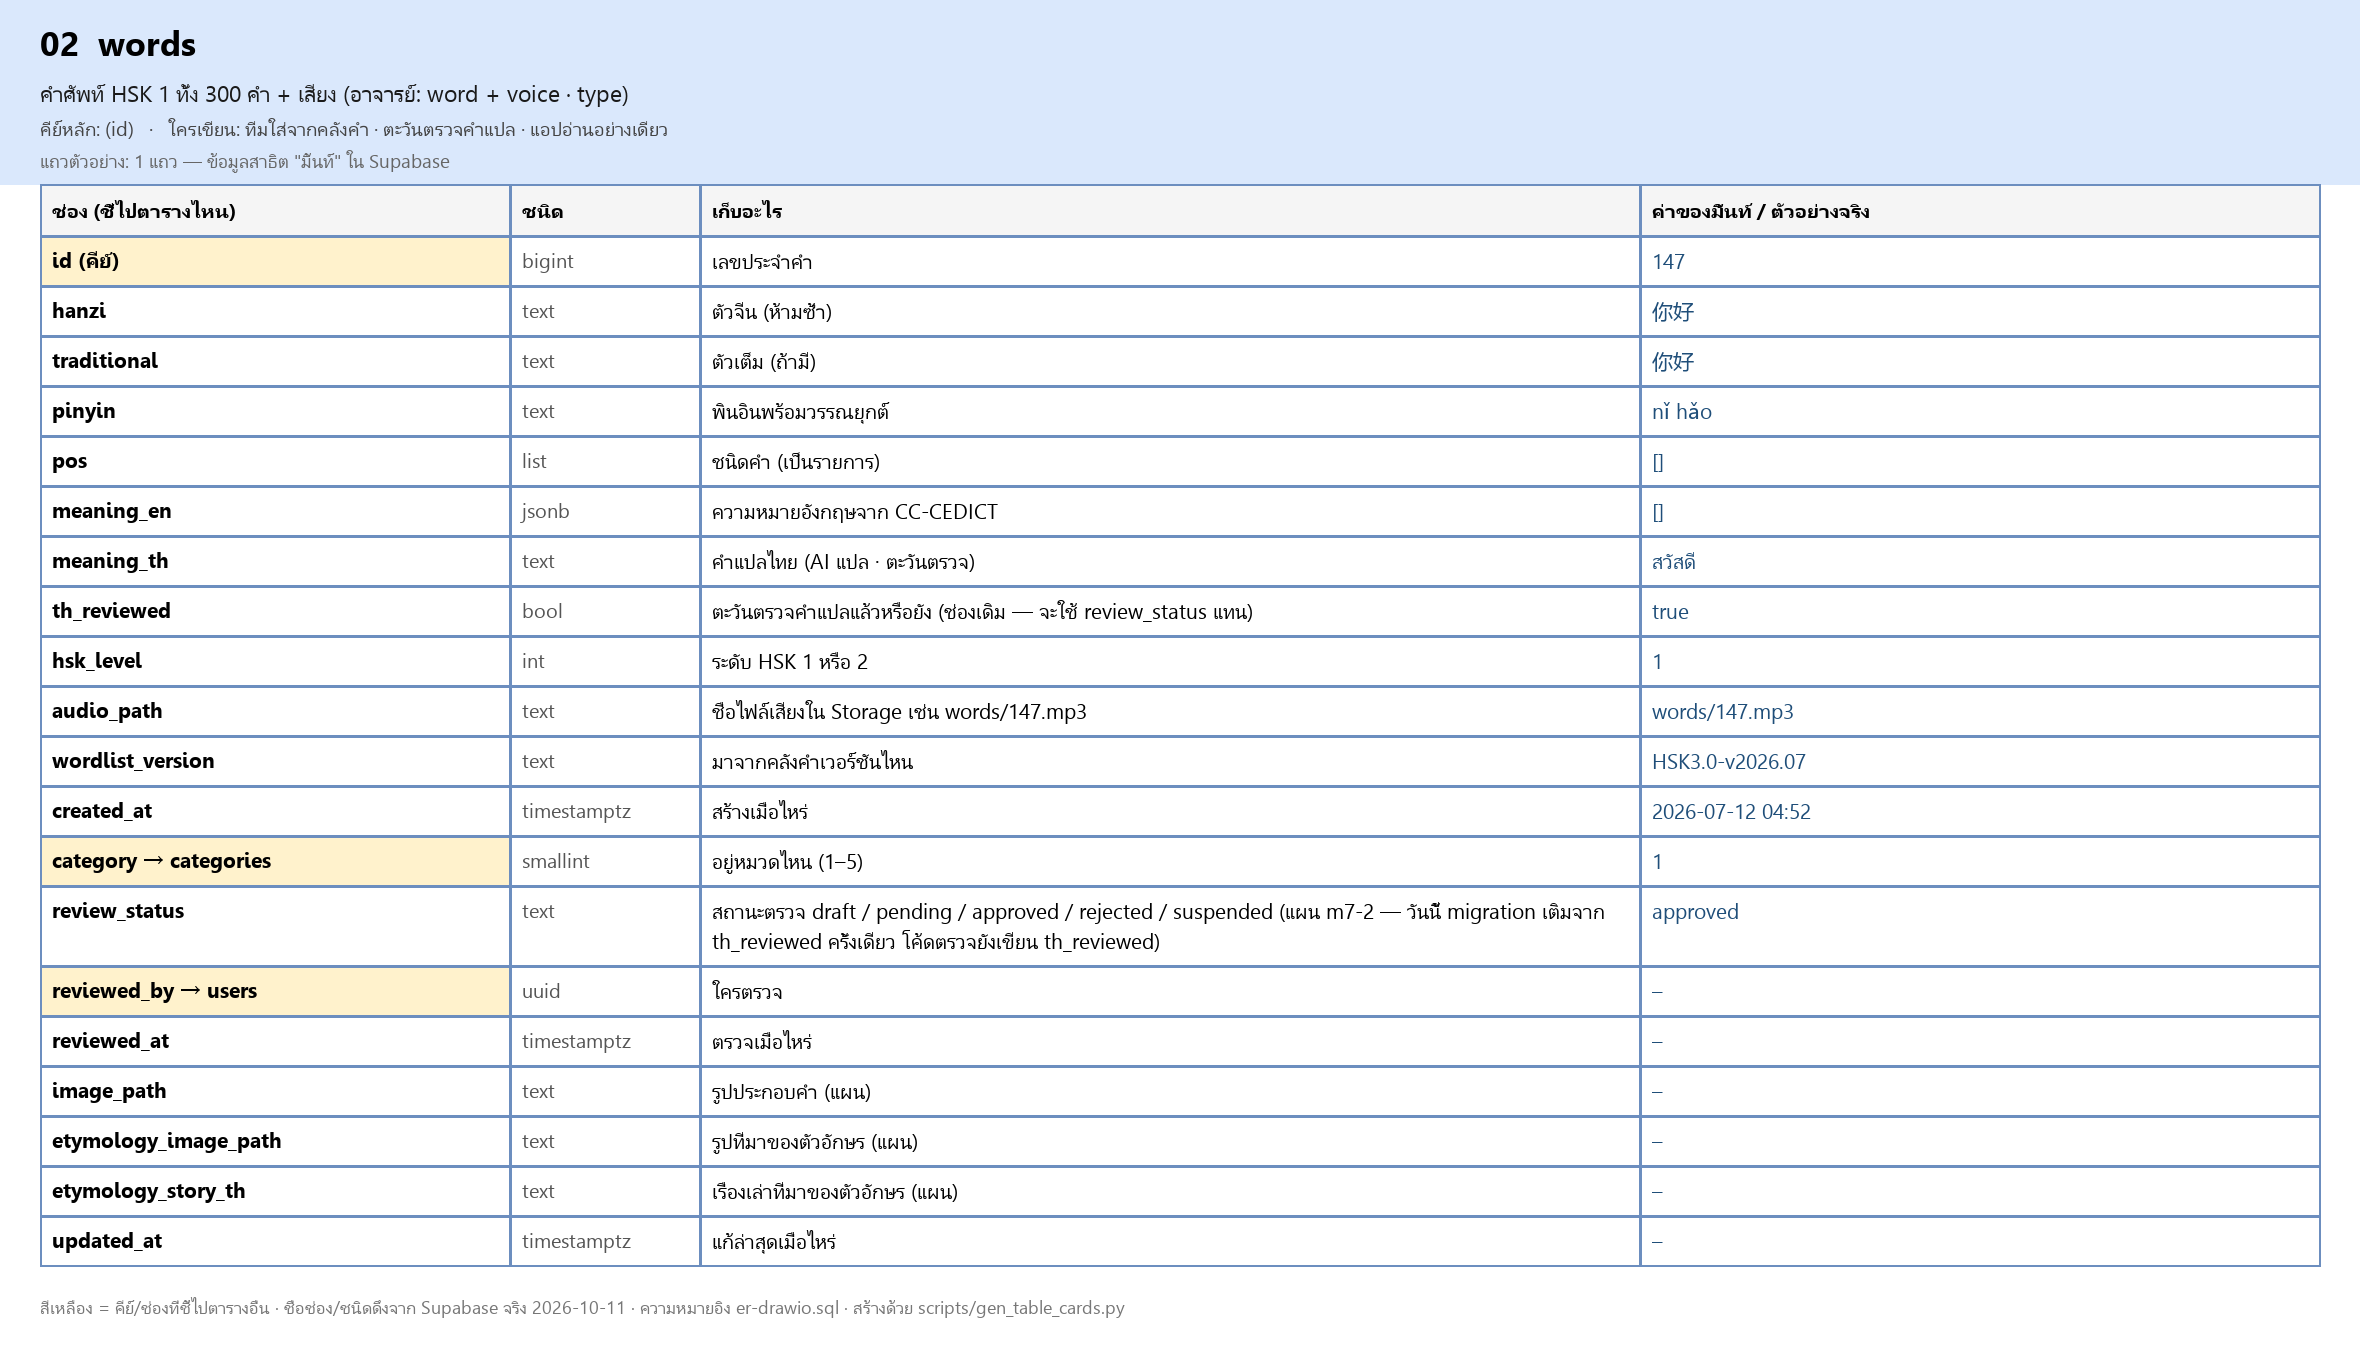
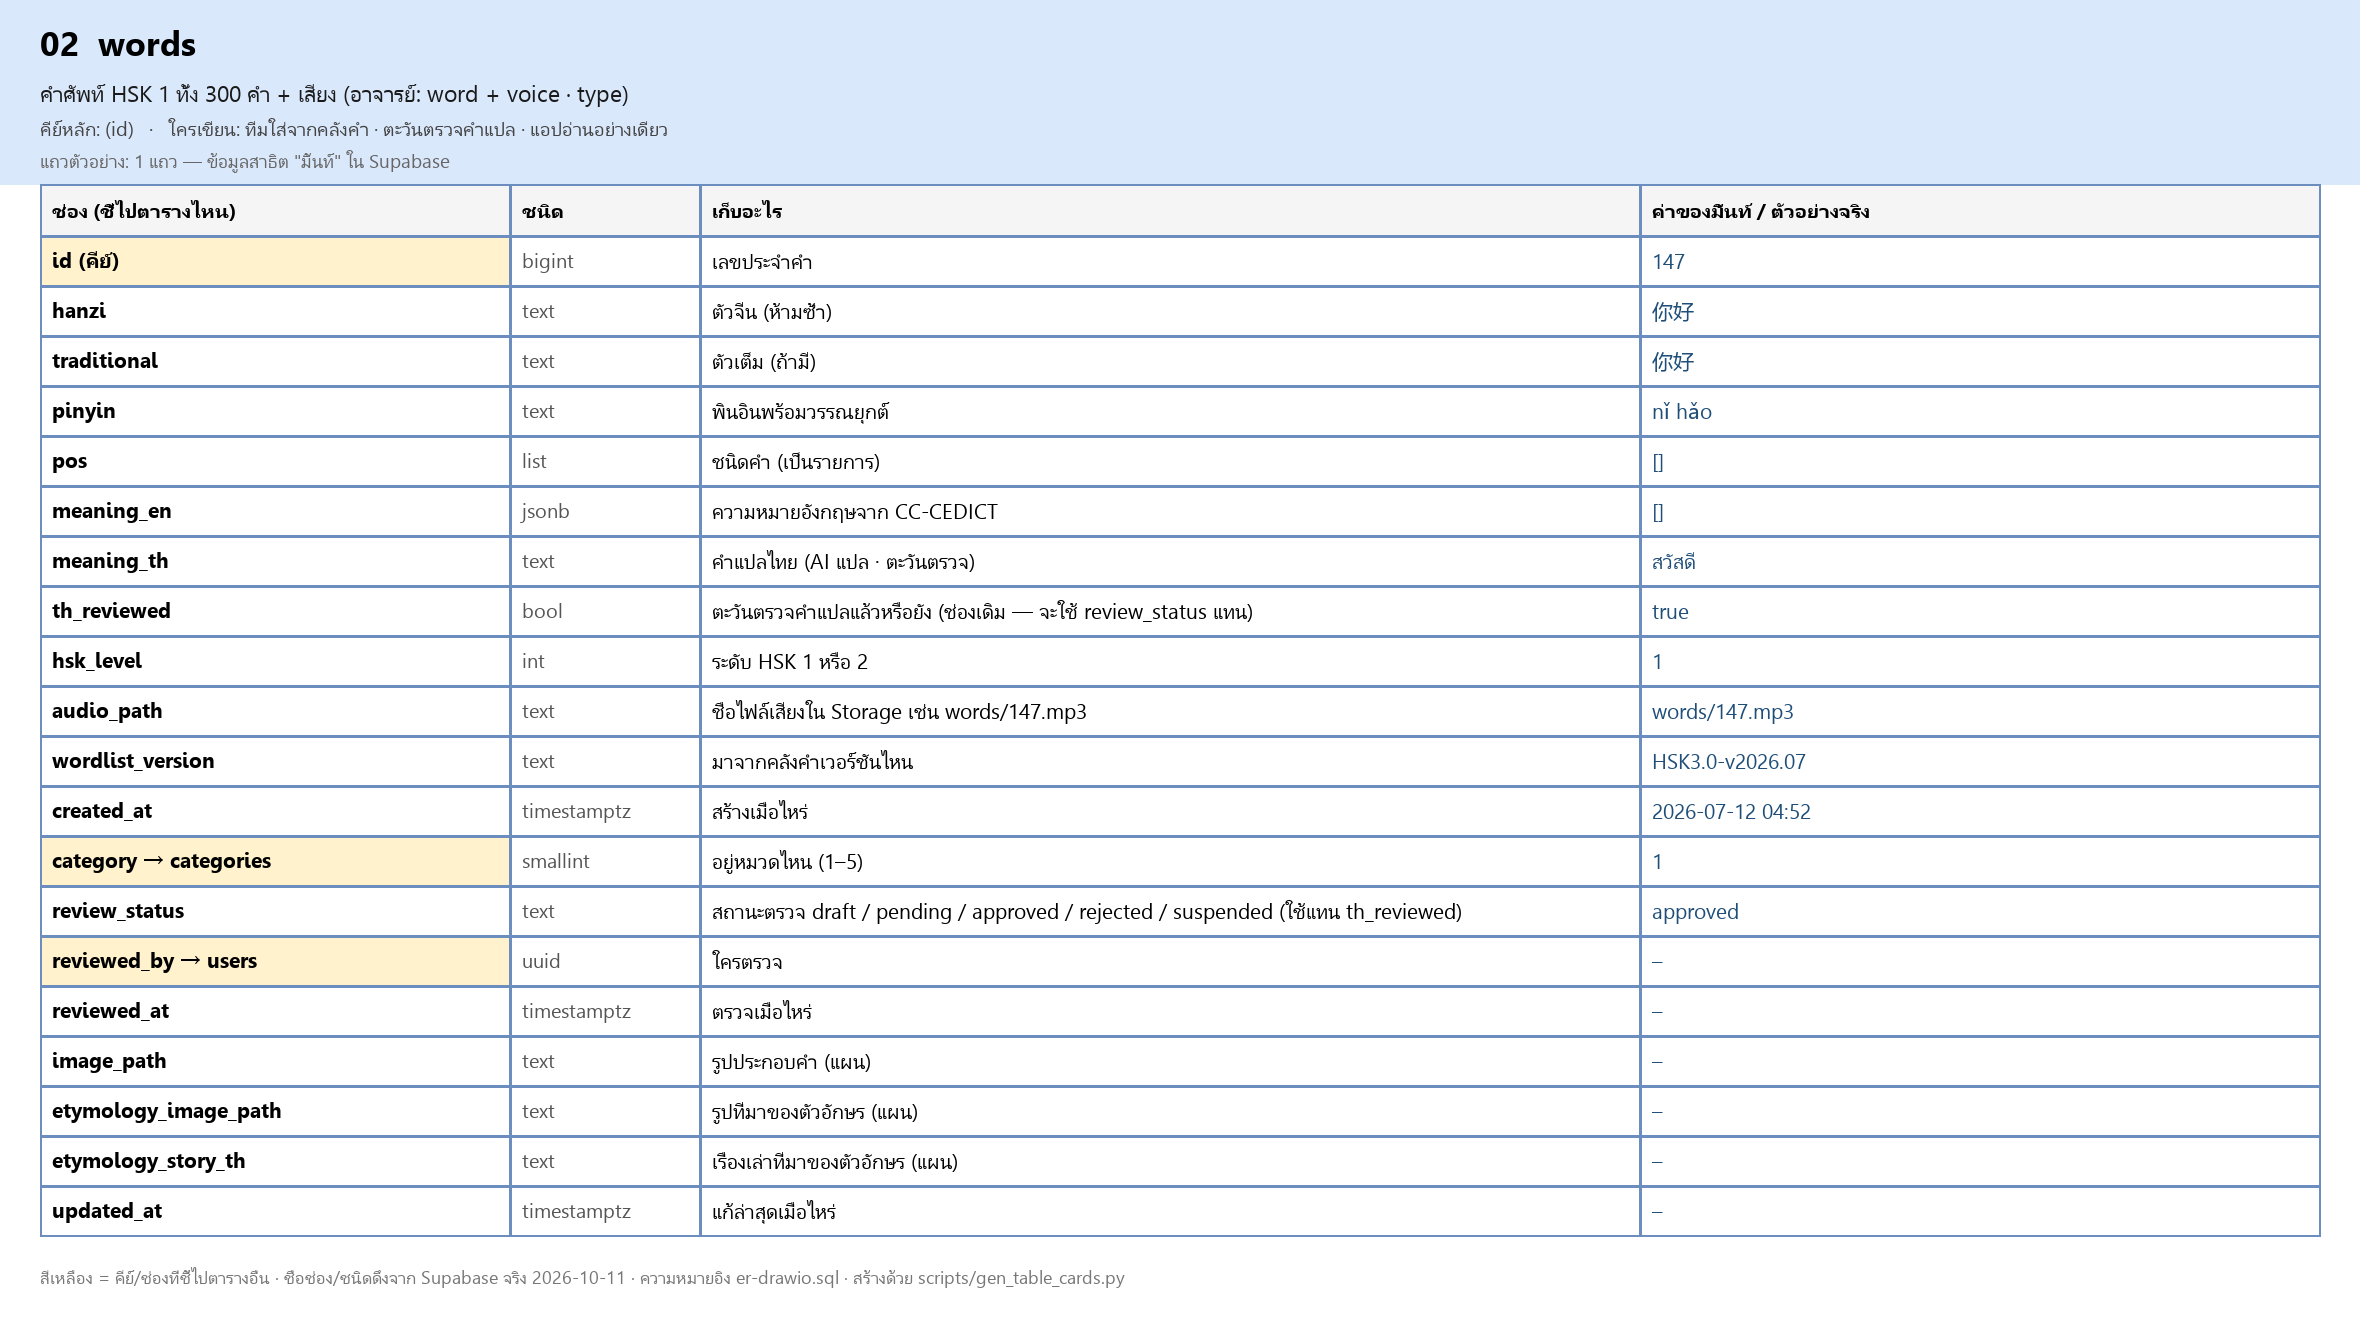
การ์ดตาราง: ตัดหมายเหตุ "แอปวันนี้ยังไม่ต่อ" ออก — การ์ดอธิบายตามแบบที่ออกแบบ (บอลสั่ง)

Changed region(s): [[0.0, 0.0619, 0.9898, 0.929], [0.1237, 0.96, 0.2475, 0.9909], [0.0619, 0.929, 0.0928, 0.9909]]

diff --git a/scripts/gen_table_cards.py b/scripts/gen_table_cards.py
@@ -23,9 +23,9 @@ PURPOSE = {
     "categories":        ("รายชื่อหมวด 5 หมวด (อาจารย์: cat)", "migration สร้างให้ · ไม่มีใครเพิ่มแถวในแอป · word_count DB นับเอง"),
     "words":             ("คำศัพท์ HSK 1 ทั้ง 300 คำ + เสียง (อาจารย์: word + voice · type)", "ทีมใส่จากคลังคำ · ตะวันตรวจคำแปล · แอปอ่านอย่างเดียว"),
     "users":             ("โปรไฟล์ผู้เรียน 1 คน = 1 แถว (อาจารย์: U)", "DB สร้างแถวเองตอนสมัคร (trigger) · ผู้เรียนแก้ได้เฉพาะช่องโปรไฟล์ · role/cohort แอดมินตั้ง"),
-    "category_progress": ("คน × หมวด — ใครเรียนหมวดไหนไปถึงไหน", "แอปเขียนแถวของตัวเอง (RLS) · quiz_best_score / quiz_passed_at / status = quiz_passed — DB กัน client เขียน (trigger QZ-12) · เซิร์ฟเวอร์เป็นคนเติม (ตามแผน 0007)"),
-    "review_states":     ("คน × คำ — ตารางนัดทวนของ FSRS", "แอปซิงก์ขึ้นมาหลังทวนคำ (ค่าจากสูตร FSRS ในเครื่อง) · เซิร์ฟเวอร์เป็นตัวจริง ทับค่าแอปได้ (server-wins) · วันนี้ยังอยู่ในเครื่อง รอซิงก์ (FS-05)"),
-    "sessions":          ("1 รอบกิจกรรม = 1 แถว (ฝึก / ทวน / ควิซ / pre / post)", "แอปเปิด-ปิดได้เฉพาะรอบฝึก/ทวน/ควิซ · รอบ pre/post เซิร์ฟเวอร์สร้าง-ปิด-ให้คะแนนเท่านั้น (RLS แล้ว) · คะแนนควิซวันนี้แอปยังเขียนได้ — ให้เซิร์ฟเวอร์เขียน = แผน 0007 · attempt_no + finished_at DB เติมเอง"),
+    "category_progress": ("คน × หมวด — ใครเรียนหมวดไหนไปถึงไหน", "แอปเขียนแถวของตัวเอง · quiz_best_score / quiz_passed_at / status = quiz_passed เซิร์ฟเวอร์เท่านั้น (DB กัน client — QZ-12)"),
+    "review_states":     ("คน × คำ — ตารางนัดทวนของ FSRS", "แอปซิงก์ขึ้นมาหลังทวนคำ (ค่าจากสูตร FSRS ในเครื่อง) · เซิร์ฟเวอร์เป็นตัวจริง ทับค่าแอปได้ (server-wins)"),
+    "sessions":          ("1 รอบกิจกรรม = 1 แถว (ฝึก / ทวน / ควิซ / pre / post)", "แอปเปิด-ปิดได้เฉพาะรอบฝึก/ทวน/ควิซ · รอบ pre/post และคะแนนทุกรอบ เซิร์ฟเวอร์เขียน · attempt_no + finished_at DB เติมเอง"),
     "items":             ("คลังข้อสอบ (อาจารย์: Lis — ตาราง Ans · V1 · A1–A4)", "AI/แอดมินสร้างผ่านเซิร์ฟเวอร์ (เริ่ม draft) · อนุมัติได้เฉพาะ approver = ตะวัน หรือผู้รับโอนสิทธิ์ — DB ตรวจให้ (RO-03) · แอปอ่านอย่างเดียว เฉพาะ approved"),
     "item_skills":       ("Q-matrix — ข้อไหนวัดทักษะอะไร (ข้อเดียวหลายป้ายได้)", "คนออกข้อติดป้ายตอนสร้าง/อนุมัติข้อ"),
     "attempts":          ("ทุกคำตอบ/ทุกการเห็นคำ 1 เหตุการณ์ = 1 แถว (อาจารย์: ตารางผล U · C · Lis · # → 1/0)", "แอป/API จดอย่างเดียว · ห้ามแก้ ห้ามลบ (BK-01 — trigger กันทุก role) · อาหารของโมเดล BKT (โมเดลอ่านเฉพาะแถว graded ที่ไม่ใช่ pre/post)"),
@@ -34,13 +34,13 @@ PURPOSE = {
 
 MEANINGS = {
     "categories": {
-        "id": "เลขหมวด 1–5 (DB บังคับช่วง)", "name_th": "ชื่อหมวด (ตั้งใจให้หน้าเลือกหมวดอ่านจากนี่ — วันนี้เว็บยังใช้สำเนาในโค้ด categories.ts แก้ทีต้อง deploy)", "summary_th": "คำอธิบายสั้นว่าหมวดนี้เรียนอะไร",
+        "id": "เลขหมวด 1–5 (DB บังคับช่วง)", "name_th": "ชื่อหมวดที่โชว์บนหน้าเลือกหมวด", "summary_th": "คำอธิบายสั้นว่าหมวดนี้เรียนอะไร",
         "difficulty_order": "ลำดับแนะนำ ง่าย → ยาก (PA-09)", "word_count": "จำนวนคำในหมวด — DB นับจาก words ให้เองด้วย trigger",
         "created_at": "สร้างแถวเมื่อไหร่", "updated_at": "แก้ล่าสุดเมื่อไหร่ (DB เติมเอง)"},
     "words": {
         "id": "เลขประจำคำ", "hanzi": "ตัวจีน (ห้ามซ้ำ)", "traditional": "ตัวเต็ม (ถ้ามี)", "pinyin": "พินอินพร้อมวรรณยุกต์", "pos": "ชนิดคำ (เป็นรายการ)",
         "meaning_en": "ความหมายอังกฤษจาก CC-CEDICT", "meaning_th": "คำแปลไทย (AI แปล · ตะวันตรวจ)", "th_reviewed": "ตะวันตรวจคำแปลแล้วหรือยัง (ช่องเดิม — จะใช้ review_status แทน)",
-        "review_status": "สถานะตรวจ draft / pending / approved / rejected / suspended (แผน m7-2 — วันนี้ migration เติมจาก th_reviewed ครั้งเดียว โค้ดตรวจยังเขียน th_reviewed)", "reviewed_by": "ใครตรวจ", "reviewed_at": "ตรวจเมื่อไหร่",
+        "review_status": "สถานะตรวจ draft / pending / approved / rejected / suspended (ใช้แทน th_reviewed)", "reviewed_by": "ใครตรวจ", "reviewed_at": "ตรวจเมื่อไหร่",
         "hsk_level": "ระดับ HSK 1 หรือ 2", "category": "อยู่หมวดไหน (1–5)", "audio_path": "ชื่อไฟล์เสียงใน Storage เช่น words/147.mp3",
         "image_path": "รูปประกอบคำ (แผน)", "etymology_image_path": "รูปที่มาของตัวอักษร (แผน)", "etymology_story_th": "เรื่องเล่าที่มาของตัวอักษร (แผน)",
         "wordlist_version": "มาจากคลังคำเวอร์ชันไหน", "created_at": "สร้างเมื่อไหร่", "updated_at": "แก้ล่าสุดเมื่อไหร่"},
